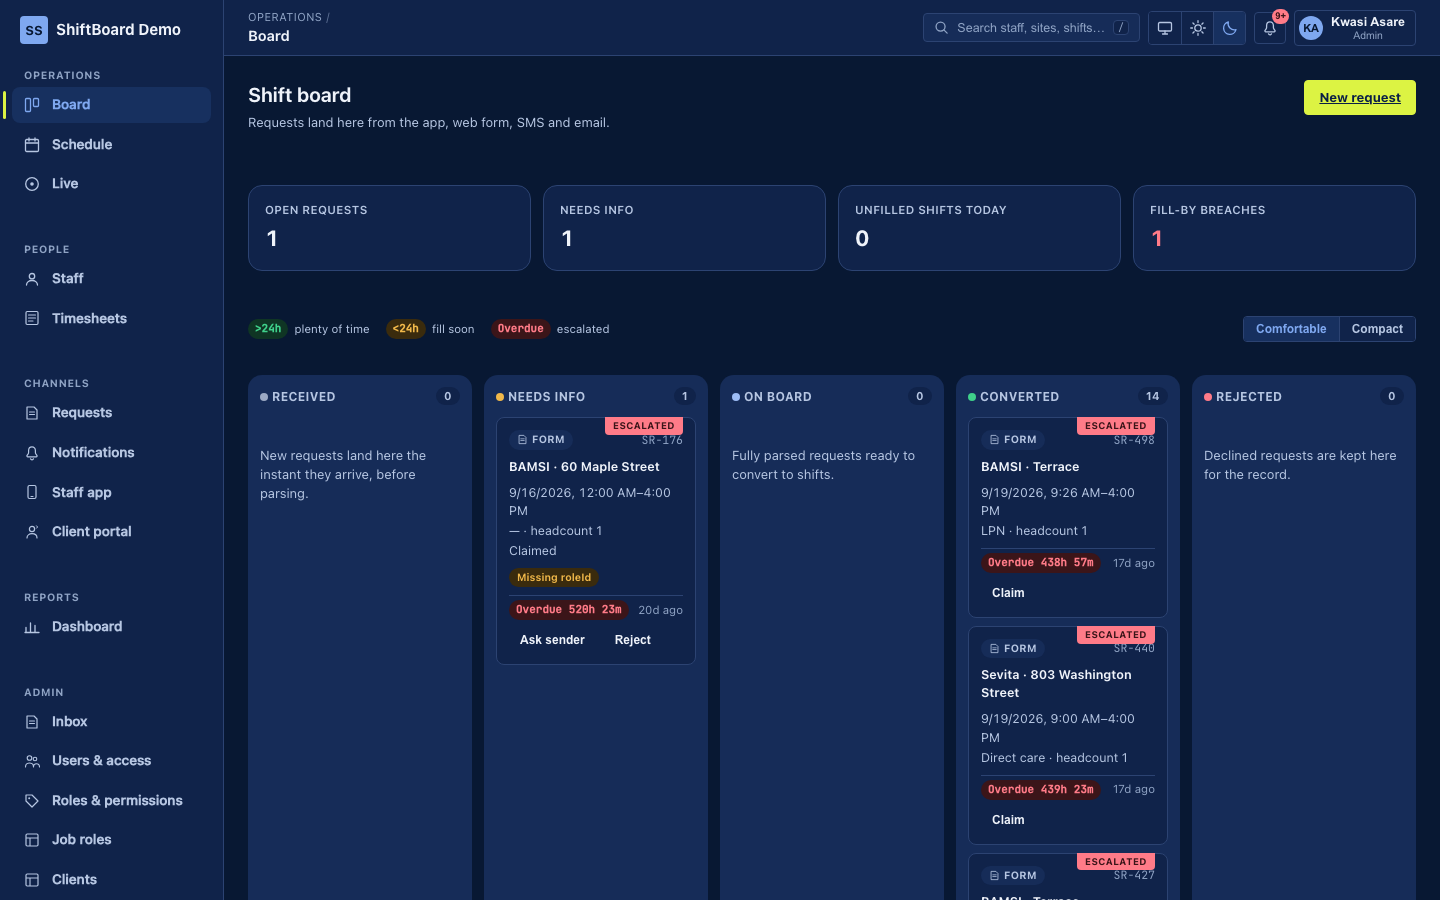
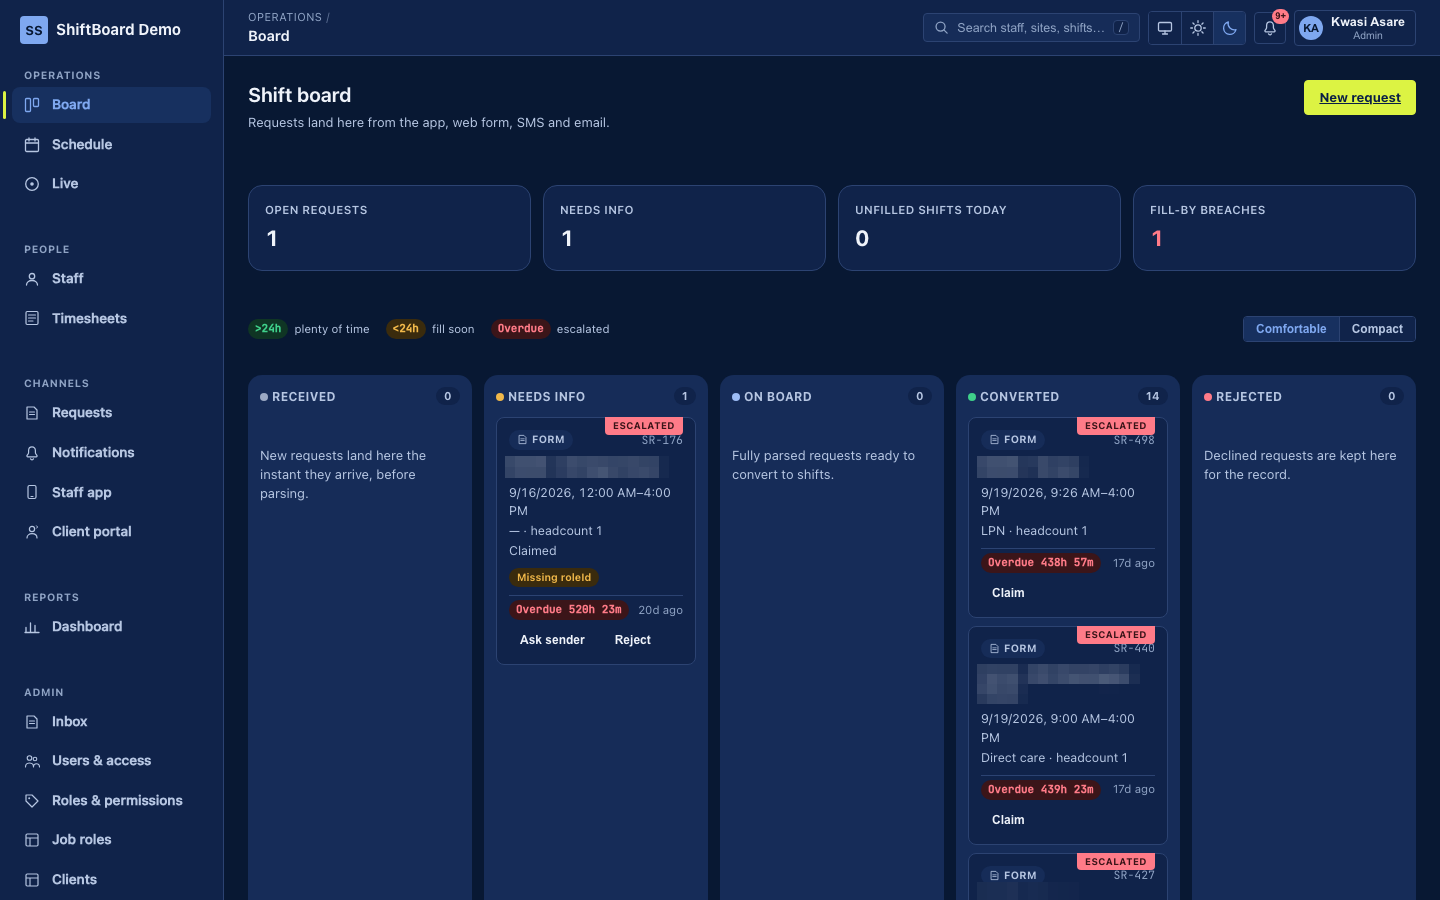
EP-6 review fix: redact client names in screenshots, drop prod hostname
Fable peer-review of origin/master..origin/dev (EP-46 + EP-6), six personas.

BLOCKER (fixed): 01-shift-board.png and 03-request-form.png showed the
demo tenant's client names and site addresses (BAMSI, Sevita, street
addresses). Both are real Massachusetts human-services organisations, so
the images contradicted the "fictional sample data" claim and the repo's
own rule that no client names are visible; the first gallery image is
also the public card thumbnail. Pixelated those regions in place and
noted the redaction in the captions.

MAJOR (fixed): "The live demo runs on fictional sample data" is not a
claim the screenshots support; reworded to "sample data". Whether the
demo tenant's Staff/Users pages (which the TODO says show phone numbers)
hold real people still needs Kwasi's confirmation before promotion.

MINOR (fixed): the production SWA hostname of a client system sat in a
YAML comment of a public repo; replaced with the merge-time instruction
only (preview environments disappear when PR #2 closes, so liveUrl must
be switched as part of that merge).

MINOR (fixed): markdown h2/ol in .detail-notes are unscoped, so "Try it"
rendered at the browser default h2 size instead of the 1.25rem used by
the sibling Problem/Architecture/Stack headings; added matching styles.

NIT (fixed): "every change is refused" -> "every write is refused by the
API (HTTP 403)", matching what was verified live.

diff --git a/src/content/projects/workforce-scheduling.md b/src/content/projects/workforce-scheduling.md
@@ -10,20 +10,22 @@ architecture: "Shift board; request intake over web, SMS, email, and mobile; ass
 stack: ["Azure Container Apps", "Azure Static Web Apps", "Mobile app", "Geofencing", "SMS", "Push notifications", "RBAC", "OTP sign-in"]
 repoVisibility: "private"
 liveUrl: "https://blue-tree-0762a730f-2.eastus2.6.azurestaticapps.net/"
-# Release-2 preview (PR #2). Switch to https://blue-tree-0762a730f.6.azurestaticapps.net/ once release 2 is merged to master.
+# Release-2 preview environment (PR #2). SWA preview environments are removed
+# when the PR closes, so switch liveUrl to the production hostname as part of
+# the release-2 merge, not after it.
 gallery:
   - image: "./assets/workforce-scheduling/01-shift-board.png"
     alt: "Shift board with request columns from received through converted, with fill-by deadline badges"
-    caption: "Shift board: requests from every channel, with fill-by deadlines"
+    caption: "Shift board: requests from every channel, with fill-by deadlines (client names redacted)"
   - image: "./assets/workforce-scheduling/02-live.png"
     alt: "Live view showing today's shifts, clock state, geofence status and open alerts"
     caption: "Live: clock-in state, geofence checks and alerts"
   - image: "./assets/workforce-scheduling/03-request-form.png"
     alt: "Request coverage form with client, site, date, times, role and headcount"
-    caption: "Raising a coverage request for a client site"
+    caption: "Raising a coverage request for a client site (client name redacted)"
 ---
 
-Source is in a private repository and available on request. The live demo runs on fictional sample data.
+Source is in a private repository and available on request. The live demo runs on sample data.
 
 ## Try it
 
@@ -31,4 +33,4 @@ Source is in a private repository and available on request. The live demo runs o
 2. Enter the demo phone number **617 555 0142** and select **Send code**.
 3. The demo has no SMS sender, so the 6-digit code appears on screen. Enter it and select **Sign in**.
 
-The demo account is a **Global Reader**: it can open the shift board, schedule, live view, staff list and dashboard, but every change is refused by the API. The first load can take about 20 seconds while the API wakes up.
+The demo account is a **Global Reader**: it can open the shift board, schedule, live view, staff list and dashboard, but every write is refused by the API (HTTP 403). The first load can take about 20 seconds while the API wakes up.
